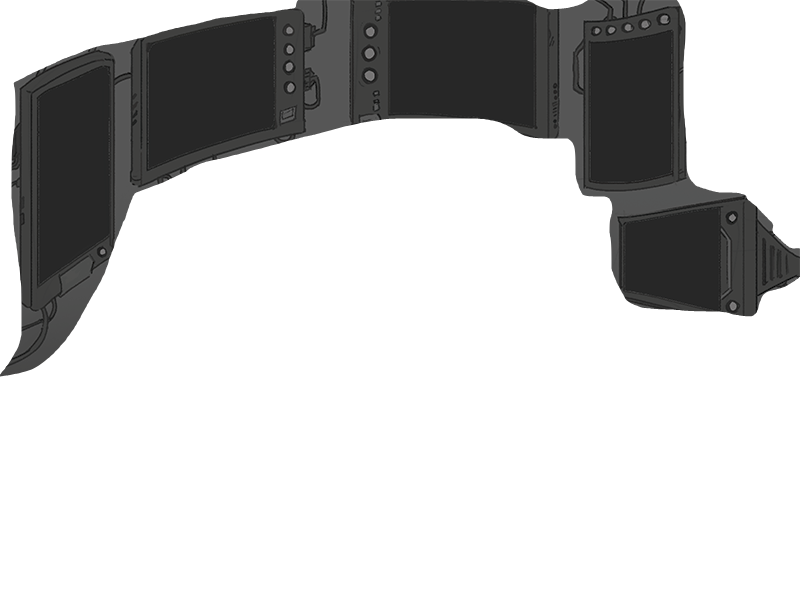
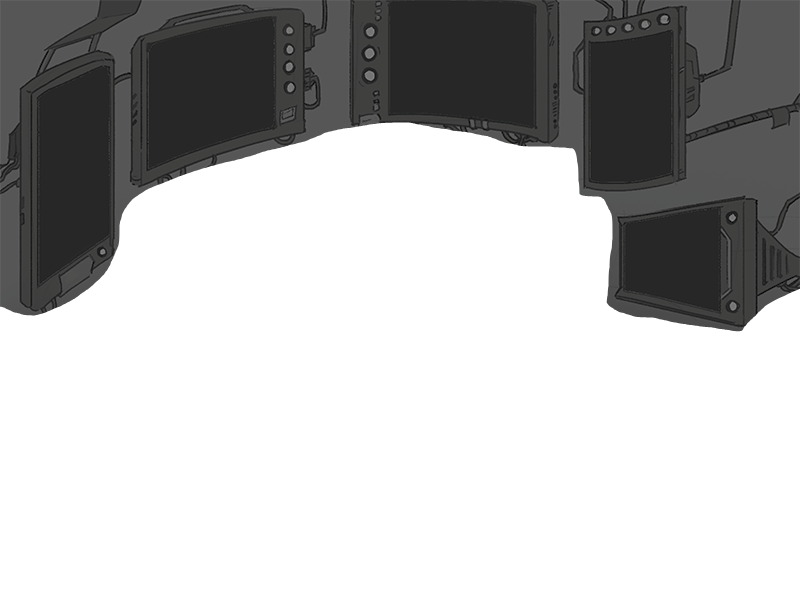
monitors change color too

diff --git a/Assets/Scripts/EscapeRoom/EscapeRoom0/Logic/Monitors.cs b/Assets/Scripts/EscapeRoom/EscapeRoom0/Logic/Monitors.cs
@@ -10,6 +10,7 @@ public class Monitors : MonoBehaviour
         if (!monitorsOn && GameProgression.GameProgressionInstance.GetFlag("usedRemote"))
         {
             monitorsOn = true;
+            GetComponent<Image>().sprite = GameProgression.GameProgressionInstance.SpriteCache.sprites["MonitorsSecondary"];
             GameData.escapeRoomGameplayManager.locationGameObjects[4].GetComponent<Image>().sprite = GameProgression.GameProgressionInstance.SpriteCache.sprites["EscapeRoom0Location4Secondary"];
         }
     }
